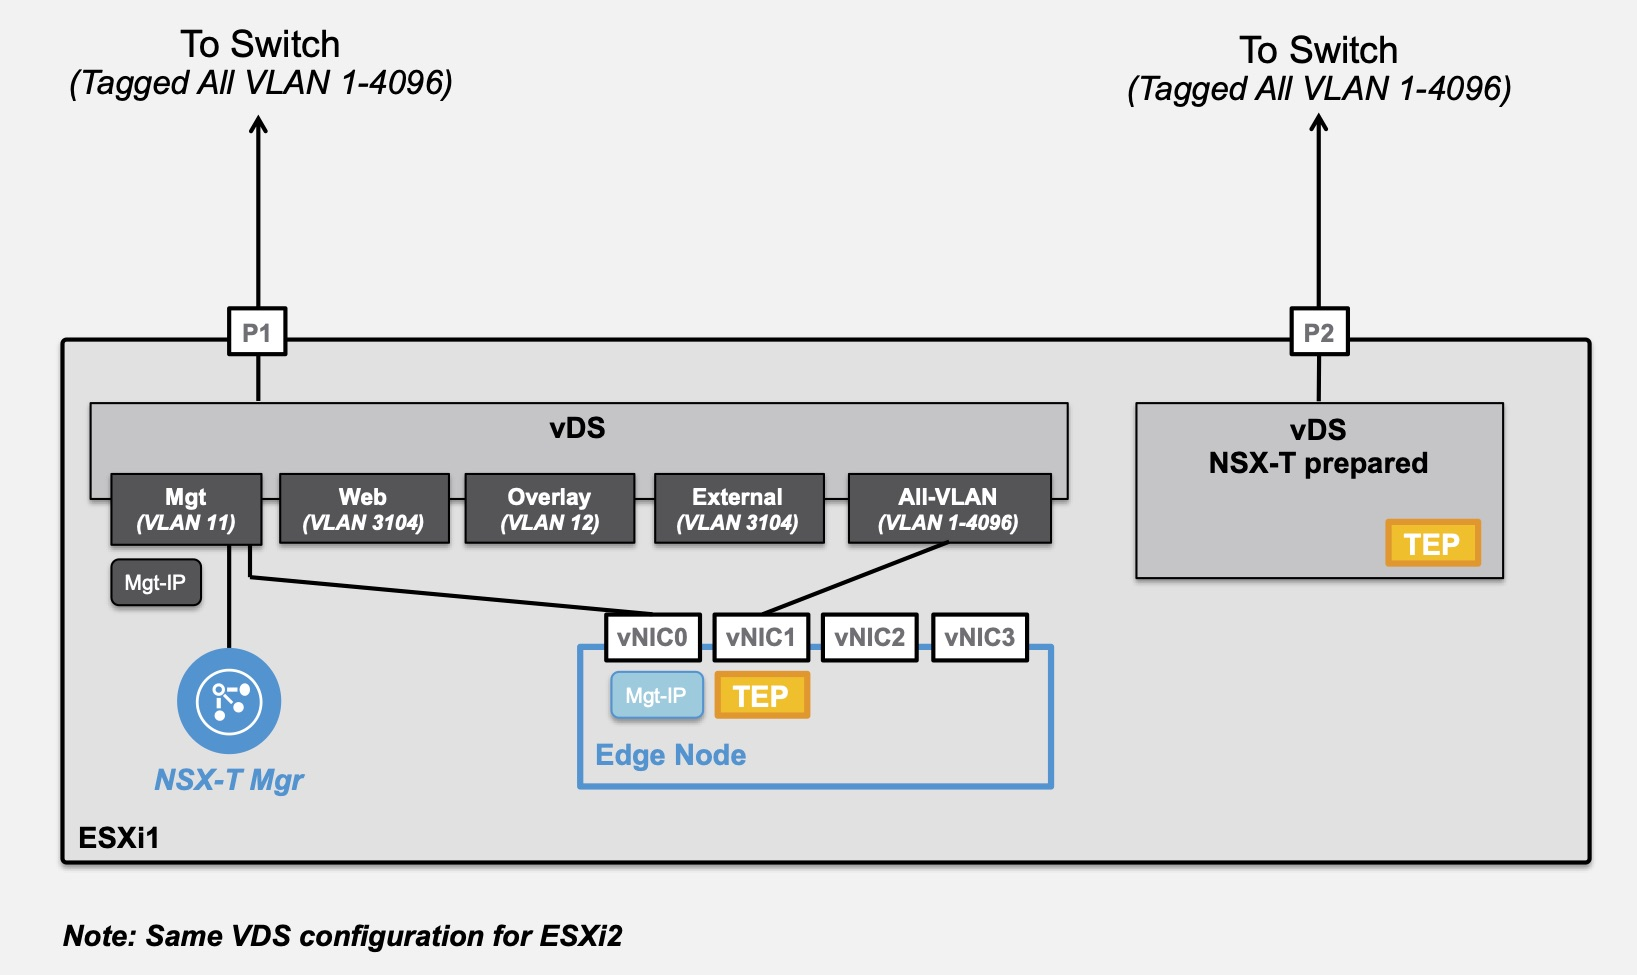
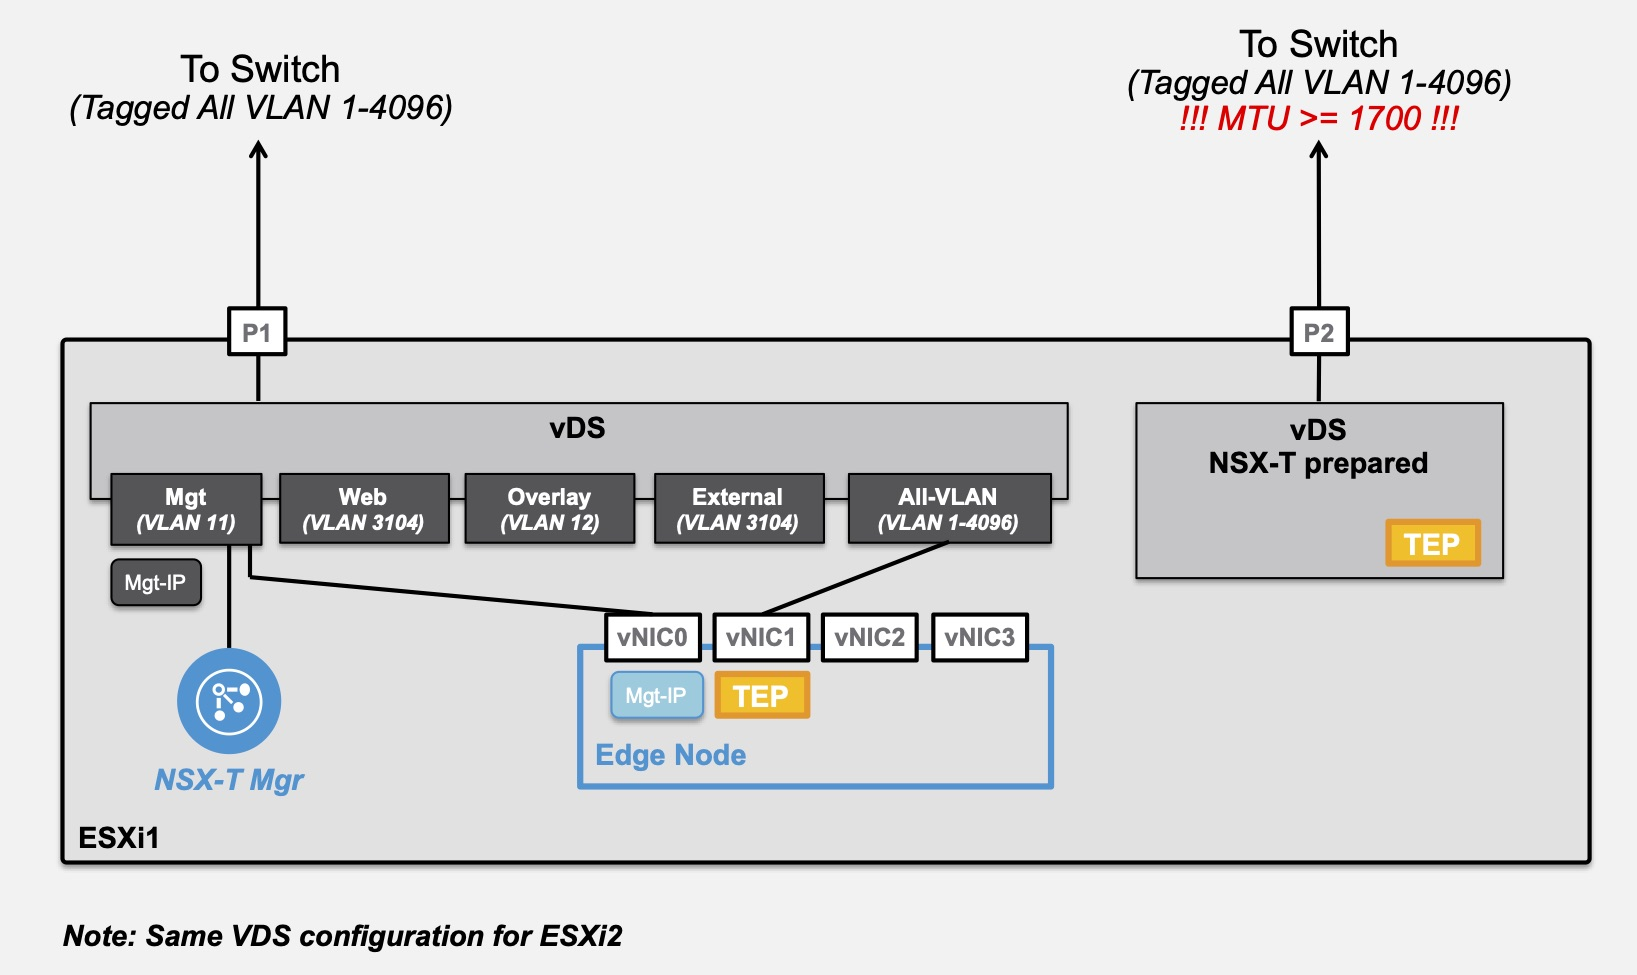
Creation

Changed region(s): [[0.6854, 0.0308, 0.9346, 0.1538], [0.0312, 0.0308, 0.2804, 0.1538]]

diff --git a/docs/2-Installation.md b/docs/2-Installation.md
@@ -174,6 +174,15 @@ From vCenter, under "Networking", select the VDS-NSX, and right-click to "Add an
 	  <img width=70% height=70% src="/docs/assets/Graphics/2.4.1.step12.jpg">
 	</p>  
 
+- Configure that VDS-NSX with an large MTU (at least 1700).  
+From vCenter, under "Networking", select the VDS-NSX, and right-click to "Add and Manage Hosts...".  
+  	<p align="center">
+	  <img width=40% height=40% src="/docs/assets/Graphics/2.4.1.step13.jpg">
+	</p>  
+  	<p align="center">
+	  <img width=70% height=70% src="/docs/assets/Graphics/2.4.1.step14.jpg">
+	</p>  
+
 </details>
 
 
